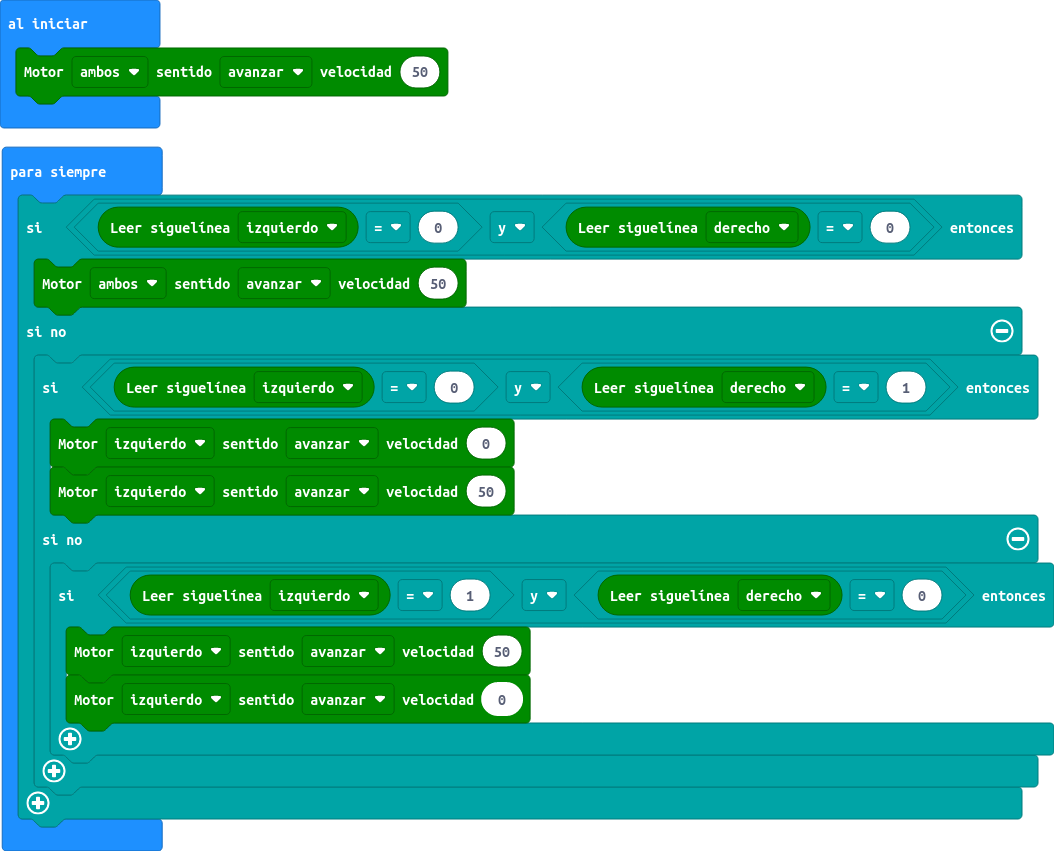
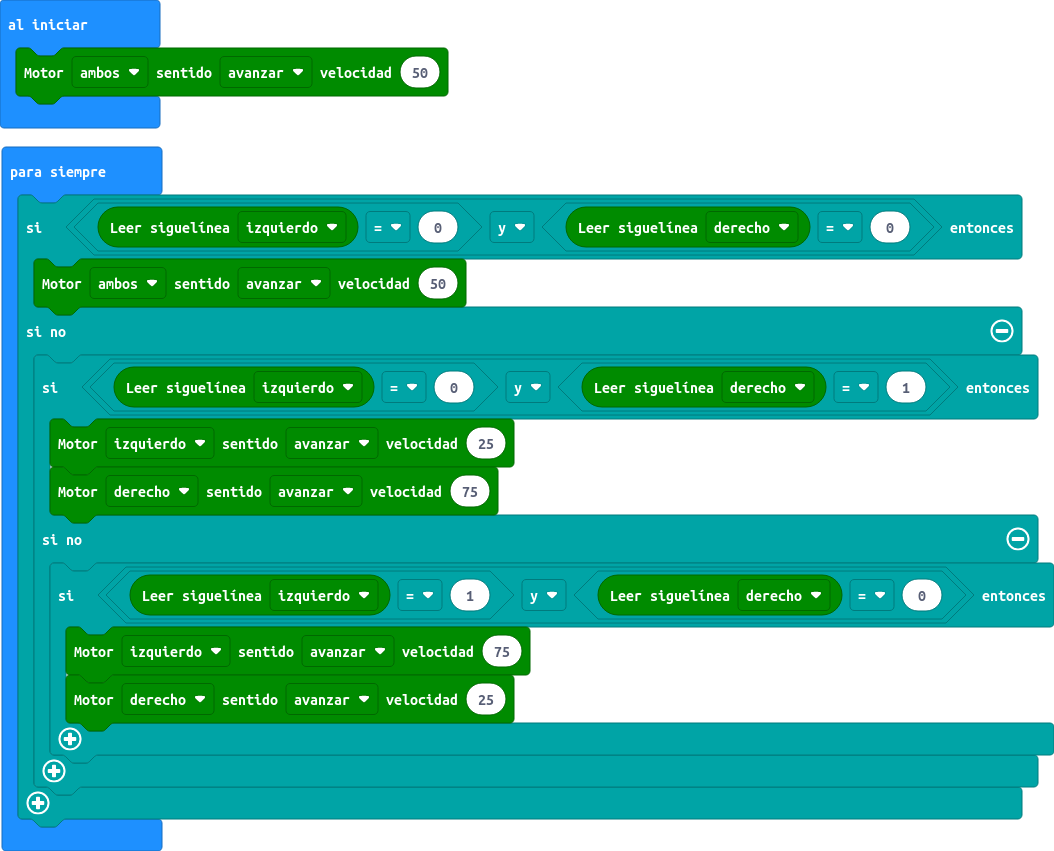
Actualizar main.blocks, main.ts

diff --git a/main.ts b/main.ts
@@ -4,12 +4,12 @@ basic.forever(function () {
         maqueen.motorRun(maqueen.Motors.All, maqueen.Dir.CW, 50)
     } else {
         if (maqueen.readPatrol(maqueen.Patrol.PatrolLeft) == 0 && maqueen.readPatrol(maqueen.Patrol.PatrolRight) == 1) {
-            maqueen.motorRun(maqueen.Motors.M1, maqueen.Dir.CW, 0)
-            maqueen.motorRun(maqueen.Motors.M1, maqueen.Dir.CW, 50)
+            maqueen.motorRun(maqueen.Motors.M1, maqueen.Dir.CW, 25)
+            maqueen.motorRun(maqueen.Motors.M2, maqueen.Dir.CW, 75)
         } else {
             if (maqueen.readPatrol(maqueen.Patrol.PatrolLeft) == 1 && maqueen.readPatrol(maqueen.Patrol.PatrolRight) == 0) {
-                maqueen.motorRun(maqueen.Motors.M1, maqueen.Dir.CW, 50)
-                maqueen.motorRun(maqueen.Motors.M1, maqueen.Dir.CW, 0)
+                maqueen.motorRun(maqueen.Motors.M1, maqueen.Dir.CW, 75)
+                maqueen.motorRun(maqueen.Motors.M2, maqueen.Dir.CW, 25)
             }
         }
     }
